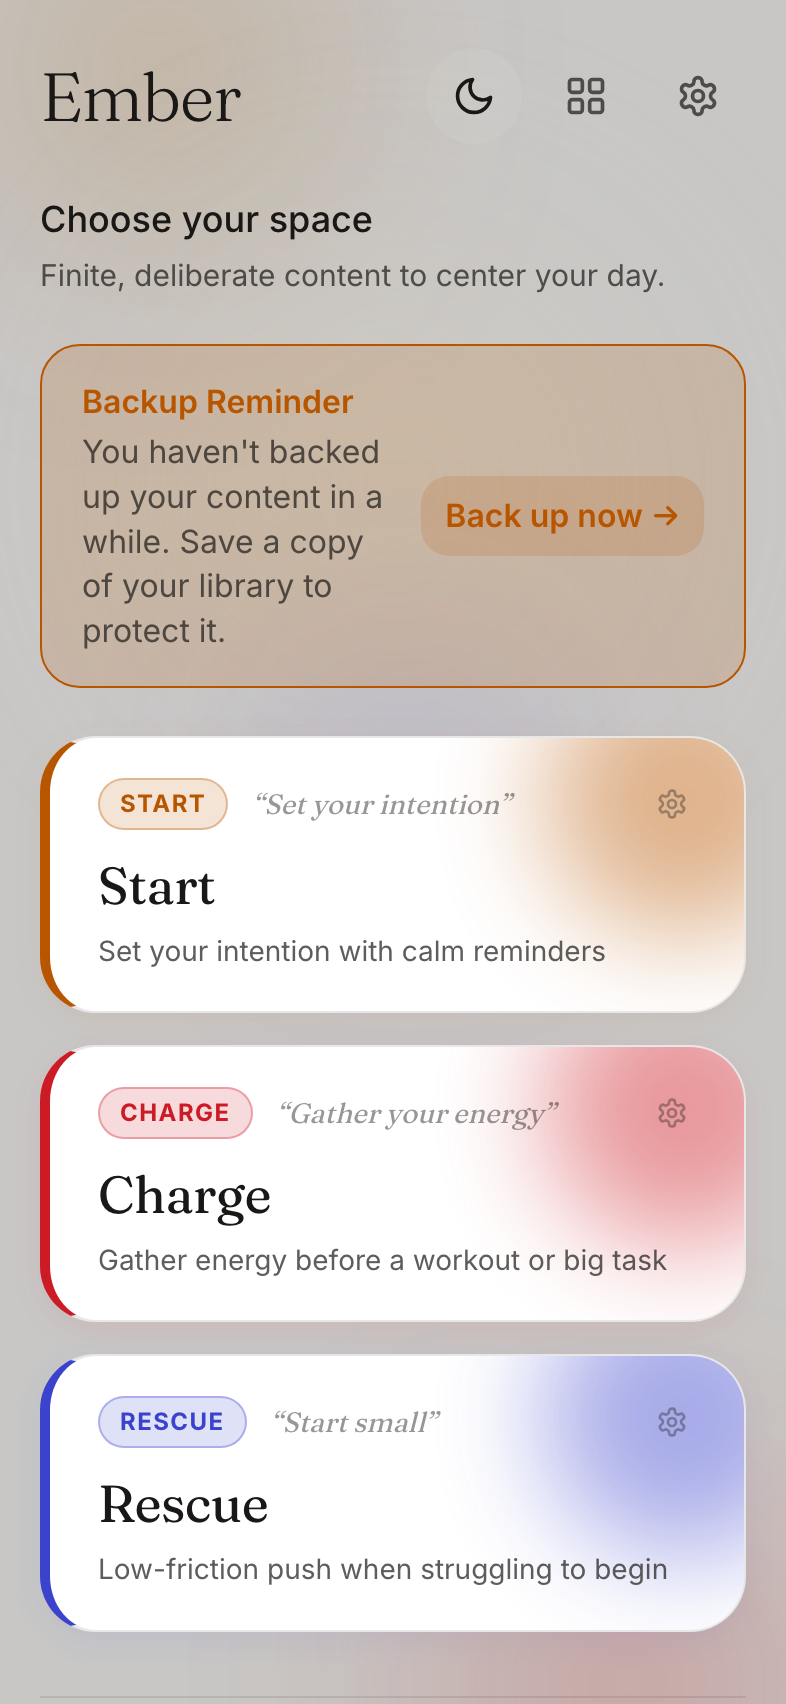
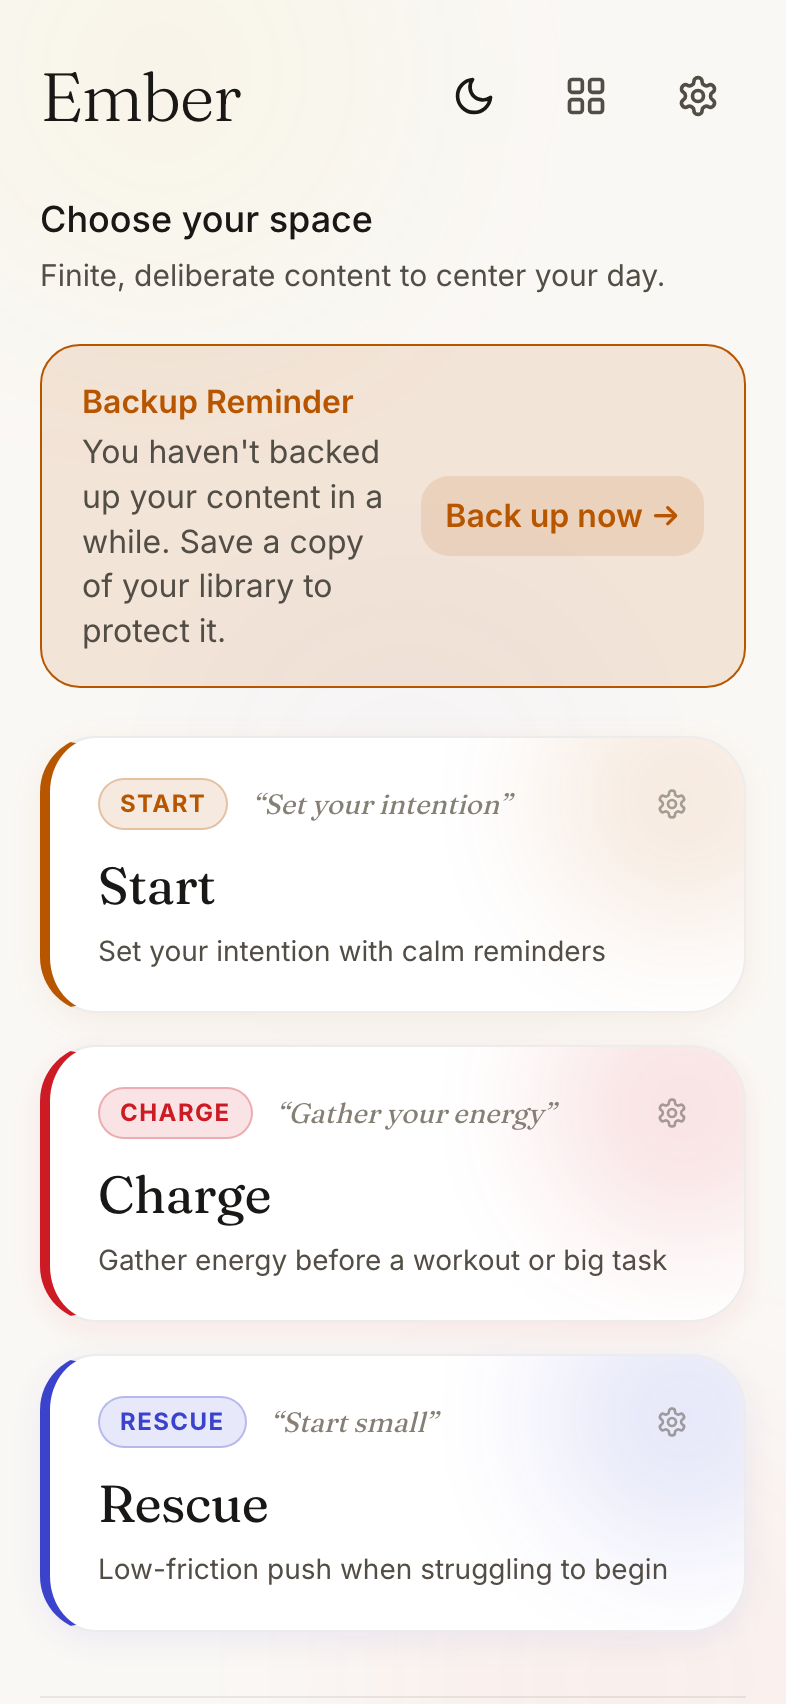
Refine light theme palette and regenerate preview screenshots and walkthrough GIF

diff --git a/src/styles/tokens.css b/src/styles/tokens.css
@@ -73,77 +73,75 @@
 }
 
 /* Light Mode Tokens (Paper / Warm Alabaster) */
-:root[data-theme="light"],
-@media (prefers-color-scheme: light) {
-  :root[data-theme="system"] {
-    --color-bg-base: #faf8f5;
-    --color-bg-surface: #ffffff;
-    --color-bg-surface-elevated: #f2efe9;
-    --color-bg-surface-glass: rgba(255, 255, 255, 0.92);
-    --color-backdrop: rgba(26, 24, 22, 0.45);
-
-    --color-text-primary: #1a1816;
-    --color-text-secondary: rgba(26, 24, 22, 0.7);
-    --color-text-tertiary: rgba(26, 24, 22, 0.45);
-
-    --color-border-quiet: rgba(26, 24, 22, 0.1);
-    --color-border-subtle: rgba(26, 24, 22, 0.18);
-    --color-border-focus: rgba(26, 24, 22, 0.42);
-
-    /* Mode Accents - Light: Punchy, vibrant, high-visibility tones */
-    --color-accent-start: #b85600;
-    --color-accent-start-bg: rgba(184, 86, 0, 0.16);
-    --color-accent-start-border: rgba(184, 86, 0, 0.32);
-    --color-accent-start-glow: rgba(184, 86, 0, 0.28);
-
-    --color-accent-charge: #cc1b24;
-    --color-accent-charge-bg: rgba(204, 27, 36, 0.16);
-    --color-accent-charge-border: rgba(204, 27, 36, 0.32);
-    --color-accent-charge-glow: rgba(204, 27, 36, 0.28);
-
-    --color-accent-rescue: #3b42cc;
-    --color-accent-rescue-bg: rgba(59, 66, 204, 0.16);
-    --color-accent-rescue-border: rgba(59, 66, 204, 0.32);
-    --color-accent-rescue-glow: rgba(59, 66, 204, 0.28);
-
-    --shadow-elevated: 0 2px 8px rgba(0, 0, 0, 0.08);
-    --shadow-overlay: 0 8px 24px rgba(0, 0, 0, 0.15);
-  }
-}
-
 :root[data-theme="light"] {
   --color-bg-base: #faf8f5;
   --color-bg-surface: #ffffff;
-  --color-bg-surface-elevated: #f2efe9;
-  --color-bg-surface-glass: rgba(255, 255, 255, 0.92);
+  --color-bg-surface-elevated: #f5f2eb;
+  --color-bg-surface-glass: rgba(255, 255, 255, 0.95);
   --color-backdrop: rgba(26, 24, 22, 0.45);
 
   --color-text-primary: #1a1816;
-  --color-text-secondary: rgba(26, 24, 22, 0.7);
-  --color-text-tertiary: rgba(26, 24, 22, 0.45);
+  --color-text-secondary: #524d45;
+  --color-text-tertiary: #857f75;
 
-  --color-border-quiet: rgba(26, 24, 22, 0.1);
-  --color-border-subtle: rgba(26, 24, 22, 0.18);
+  --color-border-quiet: rgba(26, 24, 22, 0.08);
+  --color-border-subtle: rgba(26, 24, 22, 0.14);
   --color-border-focus: rgba(26, 24, 22, 0.42);
 
   /* Mode Accents - Light: Punchy, vibrant, high-visibility tones */
   --color-accent-start: #b85600;
-  --color-accent-start-bg: rgba(184, 86, 0, 0.16);
-  --color-accent-start-border: rgba(184, 86, 0, 0.32);
-  --color-accent-start-glow: rgba(184, 86, 0, 0.28);
+  --color-accent-start-bg: rgba(184, 86, 0, 0.12);
+  --color-accent-start-border: rgba(184, 86, 0, 0.28);
+  --color-accent-start-glow: rgba(184, 86, 0, 0.18);
 
   --color-accent-charge: #cc1b24;
-  --color-accent-charge-bg: rgba(204, 27, 36, 0.16);
-  --color-accent-charge-border: rgba(204, 27, 36, 0.32);
-  --color-accent-charge-glow: rgba(204, 27, 36, 0.28);
+  --color-accent-charge-bg: rgba(204, 27, 36, 0.12);
+  --color-accent-charge-border: rgba(204, 27, 36, 0.28);
+  --color-accent-charge-glow: rgba(204, 27, 36, 0.18);
 
   --color-accent-rescue: #3b42cc;
-  --color-accent-rescue-bg: rgba(59, 66, 204, 0.16);
-  --color-accent-rescue-border: rgba(59, 66, 204, 0.32);
-  --color-accent-rescue-glow: rgba(59, 66, 204, 0.28);
+  --color-accent-rescue-bg: rgba(59, 66, 204, 0.12);
+  --color-accent-rescue-border: rgba(59, 66, 204, 0.28);
+  --color-accent-rescue-glow: rgba(59, 66, 204, 0.18);
 
-  --shadow-elevated: 0 2px 8px rgba(0, 0, 0, 0.08);
-  --shadow-overlay: 0 8px 24px rgba(0, 0, 0, 0.15);
+  --shadow-elevated: 0 2px 8px rgba(0, 0, 0, 0.06);
+  --shadow-overlay: 0 8px 24px rgba(0, 0, 0, 0.12);
+}
+
+@media (prefers-color-scheme: light) {
+  :root[data-theme="system"] {
+    --color-bg-base: #faf8f5;
+    --color-bg-surface: #ffffff;
+    --color-bg-surface-elevated: #f5f2eb;
+    --color-bg-surface-glass: rgba(255, 255, 255, 0.95);
+    --color-backdrop: rgba(26, 24, 22, 0.45);
+
+    --color-text-primary: #1a1816;
+    --color-text-secondary: #524d45;
+    --color-text-tertiary: #857f75;
+
+    --color-border-quiet: rgba(26, 24, 22, 0.08);
+    --color-border-subtle: rgba(26, 24, 22, 0.14);
+    --color-border-focus: rgba(26, 24, 22, 0.42);
+
+    --color-accent-start: #b85600;
+    --color-accent-start-bg: rgba(184, 86, 0, 0.12);
+    --color-accent-start-border: rgba(184, 86, 0, 0.28);
+    --color-accent-start-glow: rgba(184, 86, 0, 0.18);
+
+    --color-accent-charge: #cc1b24;
+    --color-accent-charge-bg: rgba(204, 27, 36, 0.12);
+    --color-accent-charge-border: rgba(204, 27, 36, 0.28);
+    --color-accent-charge-glow: rgba(204, 27, 36, 0.18);
+
+    --color-accent-rescue: #3b42cc;
+    --color-accent-rescue-bg: rgba(59, 66, 204, 0.12);
+    --color-accent-rescue-border: rgba(59, 66, 204, 0.28);
+    --color-accent-rescue-glow: rgba(59, 66, 204, 0.18);
+
+    --shadow-elevated: 0 2px 8px rgba(0, 0, 0, 0.06);
+    --shadow-overlay: 0 8px 24px rgba(0, 0, 0, 0.12);
+  }
 }
 
 @media (prefers-reduced-motion: reduce) {

diff --git a/src/components/LivingBackground/LivingBackground.css b/src/components/LivingBackground/LivingBackground.css
@@ -164,30 +164,68 @@
   filter: hue-rotate(8deg) brightness(0.96);
 }
 
-/* Light Mode Overrides for LivingBackground: Vibrant watercolor blooms */
-:root[data-theme="light"] .gradient-orb {
-  opacity: 0.36;
-  filter: blur(65px);
+/* Light Mode Overrides for LivingBackground: Soft, luminous watercolor blooms on warm paper */
+:root[data-theme="light"] .ember-living-background.tint-morning {
+  filter: sepia(0.04) hue-rotate(-4deg);
 }
 
+:root[data-theme="light"] .ember-living-background.tint-day {
+  filter: none;
+}
+
+:root[data-theme="light"] .ember-living-background.tint-evening {
+  filter: hue-rotate(6deg); /* Warm evening hue shift without dimming brightness */
+}
+
+:root[data-theme="light"] .gradient-orb {
+  filter: blur(85px);
+  opacity: 0.9;
+}
+
+/* In light mode, remove the dark base undertone blob to keep background crisp and clean */
 :root[data-theme="light"] .orb-base {
-  background: radial-gradient(circle, #e6decb 0%, transparent 70%);
-  opacity: 0.45;
+  display: none;
+}
+
+/* Light Mode Home: Soft translucent washes of honey, coral, and periwinkle */
+:root[data-theme="light"] .mode-home .orb-1 {
+  background: radial-gradient(circle, rgba(251, 191, 36, 0.22) 0%, transparent 70%);
+}
+
+:root[data-theme="light"] .mode-home .orb-2 {
+  background: radial-gradient(circle, rgba(244, 63, 94, 0.16) 0%, transparent 70%);
+}
+
+:root[data-theme="light"] .mode-home .orb-3 {
+  background: radial-gradient(circle, rgba(99, 102, 241, 0.16) 0%, transparent 70%);
+}
+
+/* Light Mode Space Accents */
+:root[data-theme="light"] .mode-start .orb-1,
+:root[data-theme="light"] .mode-start .orb-3 {
+  background: radial-gradient(circle, rgba(251, 191, 36, 0.24) 0%, transparent 70%);
 }
 
 :root[data-theme="light"] .mode-start .orb-2 {
-  background: radial-gradient(circle, #d97706 0%, transparent 70%);
-  opacity: 0.38;
+  background: radial-gradient(circle, rgba(245, 158, 11, 0.28) 0%, transparent 70%);
+}
+
+:root[data-theme="light"] .mode-charge .orb-1,
+:root[data-theme="light"] .mode-charge .orb-3 {
+  background: radial-gradient(circle, rgba(244, 63, 94, 0.18) 0%, transparent 70%);
 }
 
 :root[data-theme="light"] .mode-charge .orb-2 {
-  background: radial-gradient(circle, #e11d48 0%, transparent 70%);
-  opacity: 0.38;
+  background: radial-gradient(circle, rgba(225, 29, 72, 0.22) 0%, transparent 70%);
+}
+
+:root[data-theme="light"] .mode-rescue .orb-1,
+:root[data-theme="light"] .mode-rescue .orb-3 {
+  background: radial-gradient(circle, rgba(99, 102, 241, 0.18) 0%, transparent 70%);
 }
 
 :root[data-theme="light"] .mode-rescue .orb-2 {
-  background: radial-gradient(circle, #4f46e5 0%, transparent 70%);
-  opacity: 0.38;
+  background: radial-gradient(circle, rgba(129, 140, 248, 0.24) 0%, transparent 70%);
 }
 
 /* Reduced Motion Override: Static subtle gradient without time shift */

diff --git a/scripts/generate-previews.js b/scripts/generate-previews.js
@@ -105,10 +105,11 @@ try {
   const themeToggle = await page.$('.home-nav button');
   if (themeToggle) {
     await themeToggle.click();
-    await new Promise((r) => setTimeout(r, 600));
+    // Wait for the full 1200ms background transition to complete cleanly
+    await new Promise((r) => setTimeout(r, 1400));
     await page.screenshot({ path: path.join(outDir, 'home-light.png') });
     await themeToggle.click();
-    await new Promise((r) => setTimeout(r, 400));
+    await new Promise((r) => setTimeout(r, 1300));
   }
 
   console.log('Capturing Library...');
@@ -141,16 +142,16 @@ try {
   // 1. Home Screen (Dark)
   await addFrame(900);
 
-  // 2. Toggle to Light Mode
+  // 2. Toggle to Light Mode (wait for full background fade)
   const toggleBtn = await page.$('.home-nav button');
   if (toggleBtn) {
     await toggleBtn.click();
-    await new Promise((r) => setTimeout(r, 500));
-    await addFrame(800);
+    await new Promise((r) => setTimeout(r, 1300));
+    await addFrame(900);
 
     // Toggle back to Dark Mode
     await toggleBtn.click();
-    await new Promise((r) => setTimeout(r, 400));
+    await new Promise((r) => setTimeout(r, 1300));
     await addFrame(500);
   }
 

diff --git a/src/screens/HomeScreen.css b/src/screens/HomeScreen.css
@@ -178,31 +178,34 @@
 }
 
 /* Light mode specific tile presence and vibrant accent edging */
+:root[data-theme="light"] .mode-tile {
+  background-color: #ffffff;
+  border: 1px solid rgba(26, 24, 22, 0.08);
+  box-shadow: 0 2px 12px rgba(26, 24, 22, 0.04), 0 1px 3px rgba(26, 24, 22, 0.02);
+}
+
 :root[data-theme="light"] .mode-tile--start {
   border-left: 5px solid var(--color-accent-start);
-  background-color: #ffffff;
   box-shadow: 0 4px 16px rgba(184, 86, 0, 0.08);
 }
 
 :root[data-theme="light"] .mode-tile--charge {
   border-left: 5px solid var(--color-accent-charge);
-  background-color: #ffffff;
   box-shadow: 0 4px 16px rgba(204, 27, 36, 0.08);
 }
 
 :root[data-theme="light"] .mode-tile--rescue {
   border-left: 5px solid var(--color-accent-rescue);
-  background-color: #ffffff;
   box-shadow: 0 4px 16px rgba(59, 66, 204, 0.08);
 }
 
 :root[data-theme="light"] .mode-tile-glow {
-  opacity: 0.45;
-  filter: blur(28px);
+  opacity: 0.12;
+  filter: blur(32px);
 }
 
 :root[data-theme="light"] .mode-tile:hover .mode-tile-glow {
-  opacity: 0.7;
+  opacity: 0.22;
 }
 
 .mode-tile-content {

diff --git a/PROGRESS.md b/PROGRESS.md
@@ -98,7 +98,8 @@
   - **Intentional Opt-In Space Assignment**:
     - Updated `ItemEditScreen` so that newly added items default to `off` across all spaces (`start: 'off'`, `charge: 'off'`, `rescue: 'off'`) rather than automatically being placed in rotational pools. Users explicitly click to select which space(s) an item belongs to.
   - **Automated Device Previews & Animated Walkthrough**:
-    - Created `scripts/generate-previews.js` using headless Chrome and `gifenc` to automatically capture high-resolution mobile screenshots (`home-dark.png`, `home-light.png`, `library.png`, `session.png`) and assemble a smooth animated preview GIF (`preview.gif`) demonstrating the breathing ritual and intention cards.
+    - Created `scripts/generate-previews.js` using headless Chrome and `gifenc` to automatically capture high-resolution mobile screenshots (`home-dark.png`, `home-light.png`, `library.png`, `session.png`) and assemble a dynamic animated walkthrough GIF (`preview.gif`) demonstrating theme switching, the breathing ritual, card feedback, and library filtering.
+    - Refined light theme styles and capture timing to ensure warm, luminous alabaster paper (`#FAF8F5`) with soft watercolor washes, resolving mid-transition color blending.
     - Embedded the walkthrough GIF and screenshots into `README.md`.
   - **Portfolio Documentation (`README.md`)**: Complete portfolio write-up covering product vision, user problem, architectural decisions, iOS constraint solutions, local zero-network proof, testing methodology, and instructions for visitors.
 
